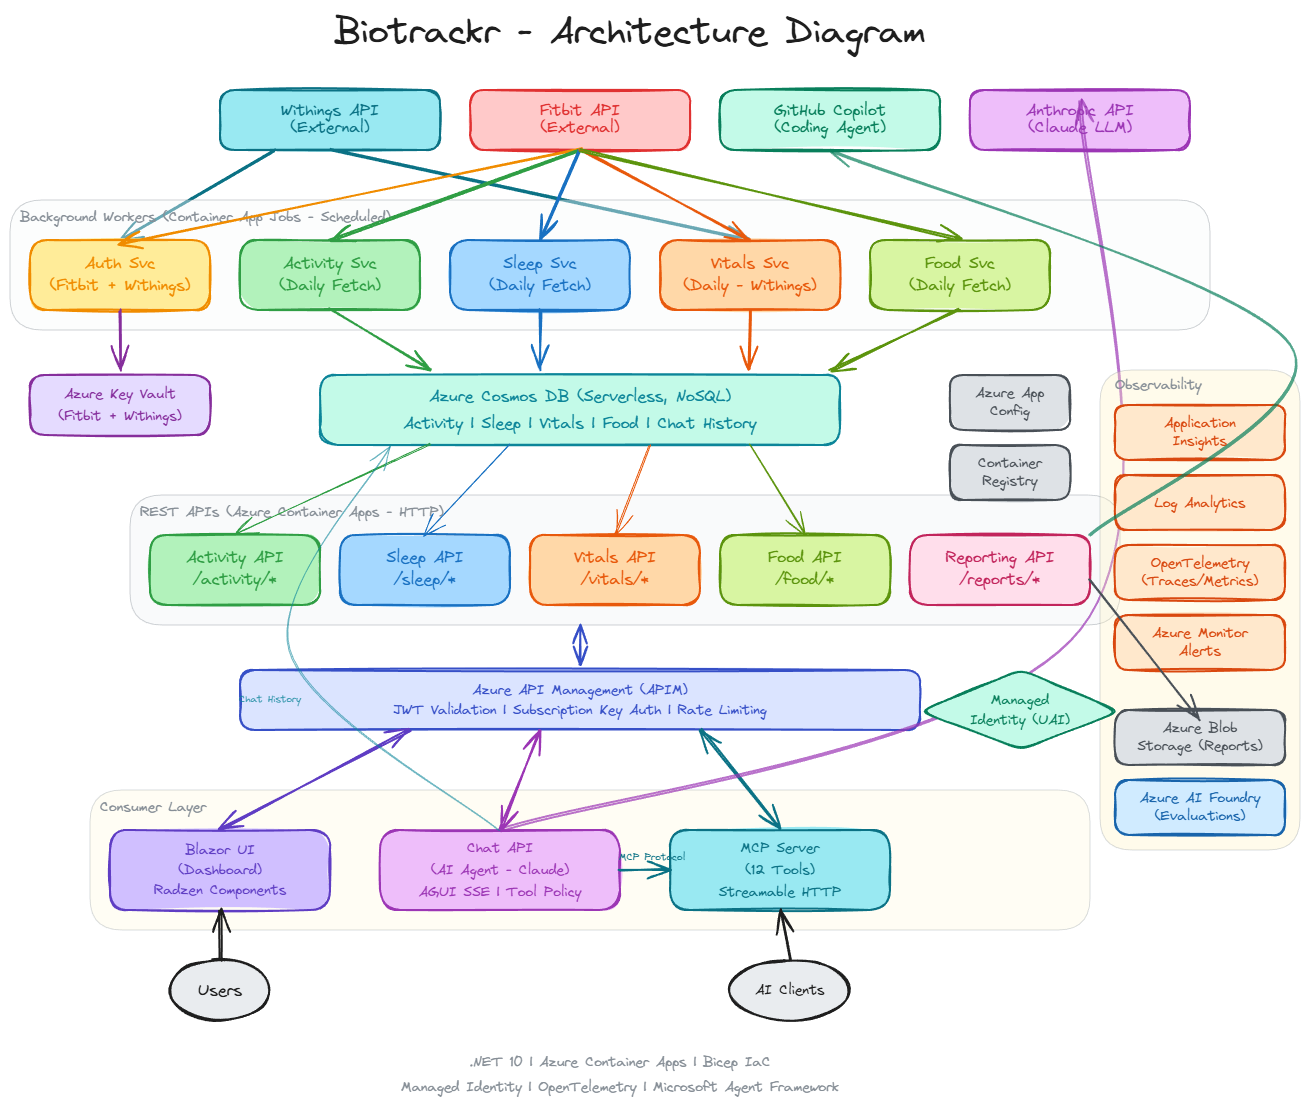
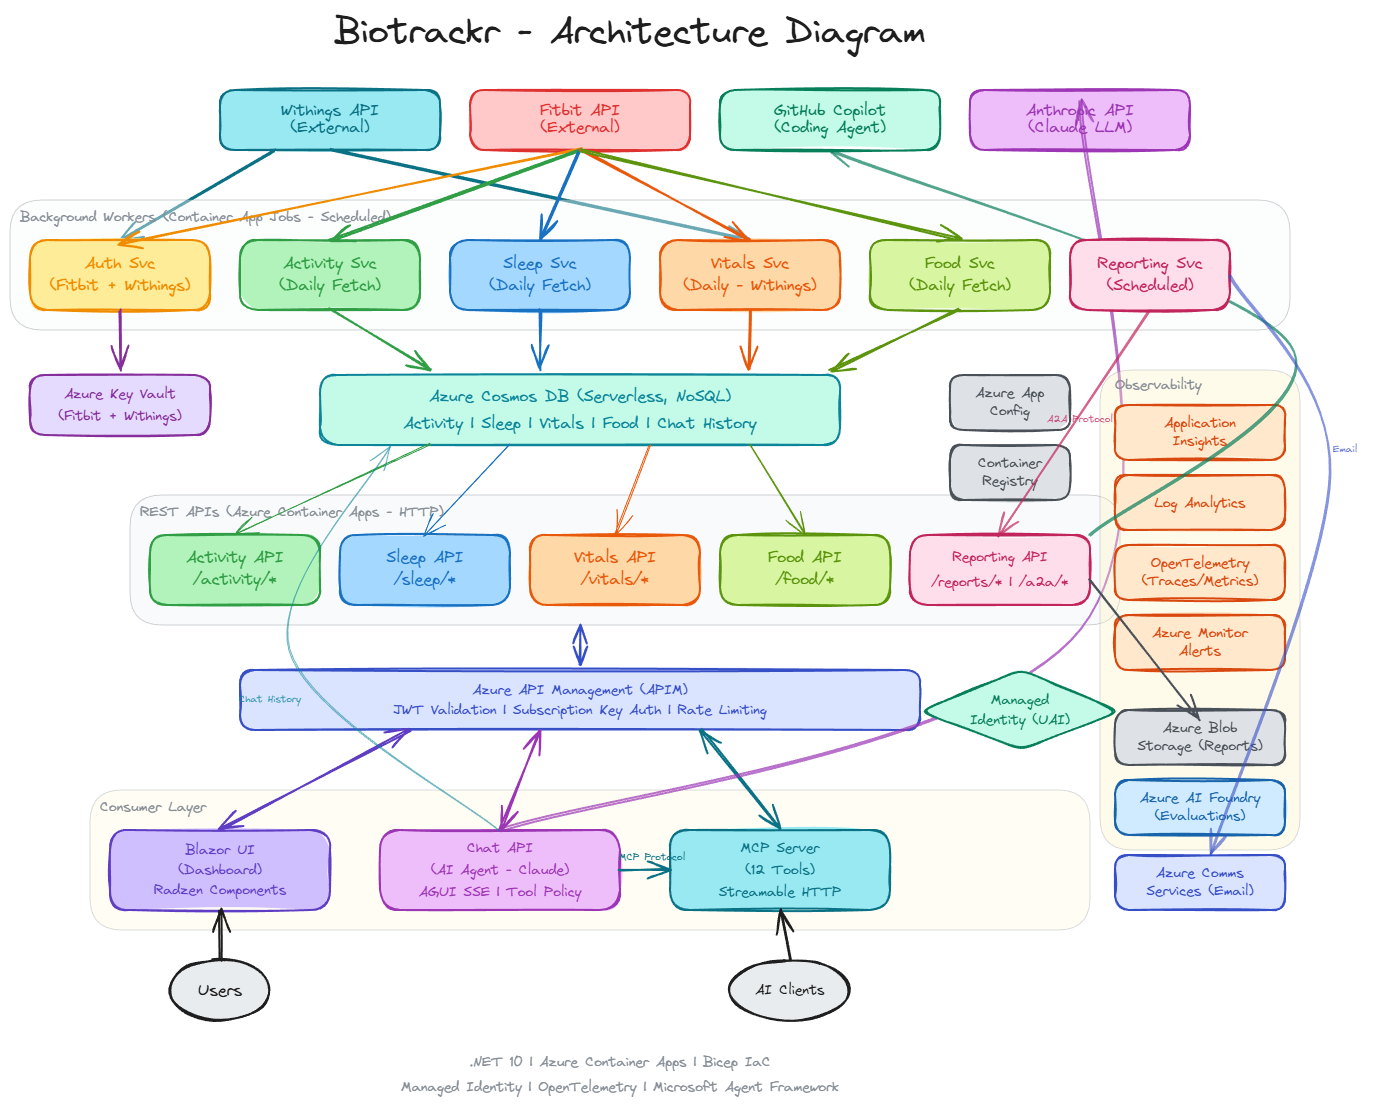
docs: update readme and architecture diagram for reporting svc
- add Reporting Svc to architecture, features, and build status
- add Azure Communication Services to infrastructure
- add A2A protocol support to Reporting API description
- update architecture diagram with Reporting Svc and ACS elements

Generated by Copilot

agent: github-copilot
model: Claude Opus 4.6
contribution: documentation

diff --git a/README.md b/README.md
@@ -28,6 +28,7 @@ Scheduled Container App Jobs that fetch data from the Fitbit and Withings APIs:
 - **Sleep Service**: Daily fetch of sleep tracking and stage analysis data from Fitbit
 - **Vitals Service**: Daily fetch of weight, blood pressure, and body composition data from Withings (muscle mass, bone mass, water mass, fat mass, fat-free mass, visceral fat index)
 - **Food Service**: Daily fetch of nutrition and food logging data from Fitbit
+- **Reporting Service**: Scheduled health summary generation (weekly, monthly, yearly cadences) — fetches data via MCP client, submits to Reporting API for PDF generation, and delivers reports via Azure Communication Services email
 
 ### Data Access (REST APIs)
 HTTP-based Container Apps serving data from Cosmos DB via Azure API Management:
@@ -35,12 +36,11 @@ HTTP-based Container Apps serving data from Cosmos DB via Azure API Management:
 - **Sleep API**: Sleep data endpoints (`/sleep/*`)
 - **Vitals API**: Vitals data endpoints (`/vitals/*`)
 - **Food API**: Food data endpoints (`/food/*`)
-- **Reporting API**: Report generation and retrieval endpoints (`/reports/*`) with Copilot SDK lifecycle hooks (ASI02/ASI05), sub-agent specialization (data-analyst, chart-generator, pdf-builder), custom SKILL.md domain knowledge, agent-to-agent auth, and artifact review (ASI09)
 
 ### Consumer Layer
 - **Chat API**: AI-powered chat agent (Claude via Microsoft Agent Framework) with AGUI SSE streaming, tool policy enforcement, conversation persistence, and graceful degradation when MCP tools are unavailable
 - **MCP Server**: [Model Context Protocol](https://modelcontextprotocol.io/) server exposing 12 tools across all health domains via Streamable HTTP transport
-- **Reporting API**: Generates PDF reports and chart images from health data using a GitHub Copilot coding agent sidecar with sub-agent orchestration (data-analyst → chart-generator → pdf-builder), custom skills for domain knowledge, lifecycle hooks for security and observability, and AI-driven report review
+- **Reporting API**: Generates PDF reports and chart images from health data using a GitHub Copilot coding agent sidecar with sub-agent orchestration (data-analyst → chart-generator → pdf-builder), custom skills for domain knowledge, lifecycle hooks for security and observability, AI-driven report review, and A2A protocol support (`/a2a/report`) for agent-to-agent communication
 - **UI**: Blazor Server dashboard with Radzen components for visualizing activity, sleep, vitals, and food data
 
 ### Supporting Infrastructure
@@ -50,6 +50,7 @@ HTTP-based Container Apps serving data from Cosmos DB via Azure API Management:
 - **Azure App Configuration**: Centralized configuration for all services
 - **Azure Container Registry**: Docker image storage
 - **Azure Blob Storage**: Report artifact storage (PDFs, charts) with SAS URL generation
+- **Azure Communication Services**: Email delivery for scheduled health summary reports
 - **GitHub Copilot**: Coding agent sidecar for Reporting API with sub-agent orchestration (data-analyst, chart-generator, pdf-builder), custom SKILL.md domain knowledge files, SDK lifecycle hooks, and OpenTelemetry instrumentation
 - **Managed Identity (UAI)**: Passwordless authentication across all Azure resources
 - **Observability**: Application Insights, Log Analytics, OpenTelemetry (traces/metrics), Azure Monitor Alerts, Azure AI Foundry (evaluation)
@@ -64,6 +65,7 @@ HTTP-based Container Apps serving data from Cosmos DB via Azure API Management:
 - 🔐 **Secure Authentication**: OAuth integration with Fitbit and Withings
 - 📊 **Data Insights**: Analysis and reporting on health metrics
 - 📝 **Report Generation**: Automated PDF reports and data visualizations via a Copilot coding agent with sub-agent specialization, custom skills, lifecycle hooks, and AI review
+- 📧 **Scheduled Health Summaries**: Weekly, monthly, and yearly health summary reports delivered via email using Azure Communication Services
 - 💬 **AI Chat Agent**: Natural language chat interface powered by Claude for querying and analysing health data
 - 🤖 **MCP Integration**: AI-ready via Model Context Protocol server with 12 tools across all health domains
 - � **Tool Policy Enforcement**: Per-session tool call limits, tool whitelisting, and rate limiting for AI agent safety
@@ -82,6 +84,7 @@ HTTP-based Container Apps serving data from Cosmos DB via Azure API Management:
 - **Azure Cosmos DB**: NoSQL database for scalable data storage
 - **Azure App Configuration**: Centralized configuration management
 - **Azure Key Vault**: Secure secrets management
+- **Azure Communication Services**: Email delivery for scheduled reports
 - **Microsoft Agent Framework**: AI agent orchestration with Claude (Anthropic) as the LLM backend
 
 ### Infrastructure
@@ -90,6 +93,7 @@ HTTP-based Container Apps serving data from Cosmos DB via Azure API Management:
 - **Docker**: Containerization for consistent environments
 - **Azure API Management**: API gateway with JWT validation for secure managed identity authentication
 - **ModelContextProtocol SDK**: MCP server with Streamable HTTP transport
+- **A2A Protocol**: Agent-to-agent communication for Reporting API inter-service orchestration
 - **Azure AI Foundry**: GenAIOps evaluation pipeline with safety evaluators
 
 ### Frontend
@@ -121,6 +125,9 @@ HTTP-based Container Apps serving data from Cosmos DB via Azure API Management:
 | **Chat API** | [![Deploy Chat Api](https://github.com/willvelida/biotrackr/actions/workflows/deploy-chat-api.yml/badge.svg)](https://github.com/willvelida/biotrackr/actions/workflows/deploy-chat-api.yml) | ![Code Coverage](https://img.shields.io/badge/Code%20Coverage-86%25-brightgreen?style=flat) | ![Integration Tests](https://img.shields.io/badge/Tests-2%20Passing-brightgreen?style=flat) |
 | **MCP Server** | [![Deploy MCP Server](https://github.com/willvelida/biotrackr/actions/workflows/deploy-mcp-server.yml/badge.svg)](https://github.com/willvelida/biotrackr/actions/workflows/deploy-mcp-server.yml) | ![Code Coverage](https://img.shields.io/badge/Code%20Coverage-76%25-yellow?style=flat) | ![Integration Tests](https://img.shields.io/badge/Tests-13%20Passing-brightgreen?style=flat) |
 | **Reporting API** | [![Deploy Reporting Api](https://github.com/willvelida/biotrackr/actions/workflows/deploy-reporting-api.yml/badge.svg)](https://github.com/willvelida/biotrackr/actions/workflows/deploy-reporting-api.yml) | ![Code Coverage](https://img.shields.io/badge/Code%20Coverage-74%25-yellow?style=flat) | ![Integration Tests](https://img.shields.io/badge/Tests-182%20Passing-brightgreen?style=flat) |
+| **Reporting Service (Weekly)** | [![Deploy Reporting Service (Weekly)](https://github.com/willvelida/biotrackr/actions/workflows/deploy-reporting-service-weekly.yml/badge.svg)](https://github.com/willvelida/biotrackr/actions/workflows/deploy-reporting-service-weekly.yml) | ![Code Coverage](https://img.shields.io/badge/Code%20Coverage-95.6%25-brightgreen?style=flat) | ![Integration Tests](https://img.shields.io/badge/Tests-6%20Passing-brightgreen?style=flat) |
+| **Reporting Service (Monthly)** | [![Deploy Reporting Service (Monthly)](https://github.com/willvelida/biotrackr/actions/workflows/deploy-reporting-service-monthly.yml/badge.svg)](https://github.com/willvelida/biotrackr/actions/workflows/deploy-reporting-service-monthly.yml) | ![Code Coverage](https://img.shields.io/badge/Code%20Coverage-95.6%25-brightgreen?style=flat) | ![Integration Tests](https://img.shields.io/badge/Tests-6%20Passing-brightgreen?style=flat) |
+| **Reporting Service (Yearly)** | [![Deploy Reporting Service (Yearly)](https://github.com/willvelida/biotrackr/actions/workflows/deploy-reporting-service-yearly.yml/badge.svg)](https://github.com/willvelida/biotrackr/actions/workflows/deploy-reporting-service-yearly.yml) | ![Code Coverage](https://img.shields.io/badge/Code%20Coverage-95.6%25-brightgreen?style=flat) | ![Integration Tests](https://img.shields.io/badge/Tests-6%20Passing-brightgreen?style=flat) |
 | **AI Evaluation** | [![Evaluate AI Agents](https://github.com/willvelida/biotrackr/actions/workflows/evaluation.yml/badge.svg)](https://github.com/willvelida/biotrackr/actions/workflows/evaluation.yml) | N/A | N/A |
 | **UI** | [![Deploy UI](https://github.com/willvelida/biotrackr/actions/workflows/deploy-ui.yml/badge.svg)](https://github.com/willvelida/biotrackr/actions/workflows/deploy-ui.yml) | ![Code Coverage](https://img.shields.io/badge/Tests-177%20Passing-brightgreen?style=flat) | N/A |
 
